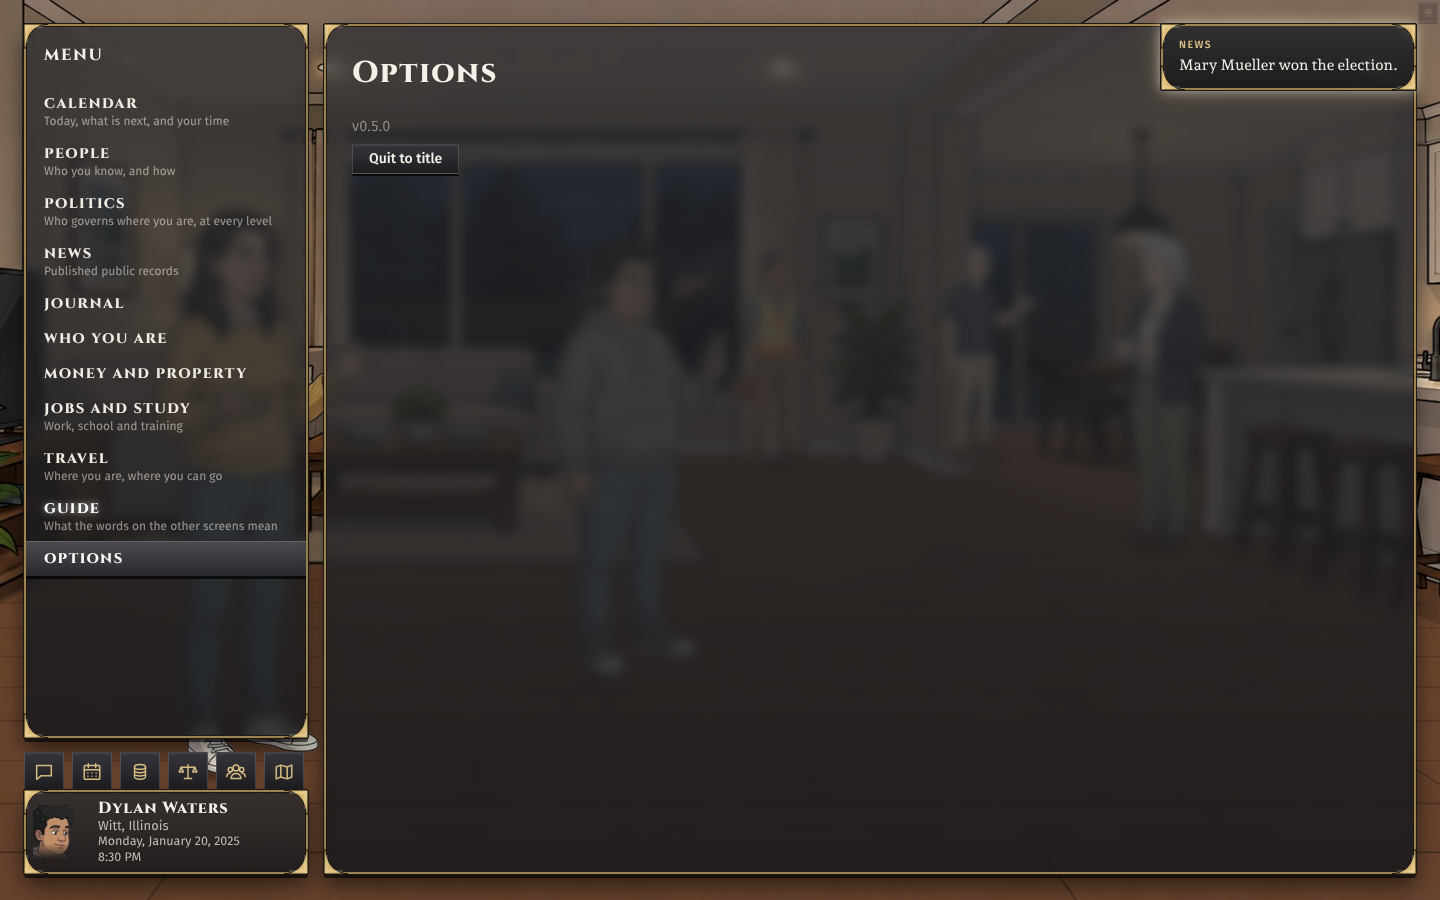
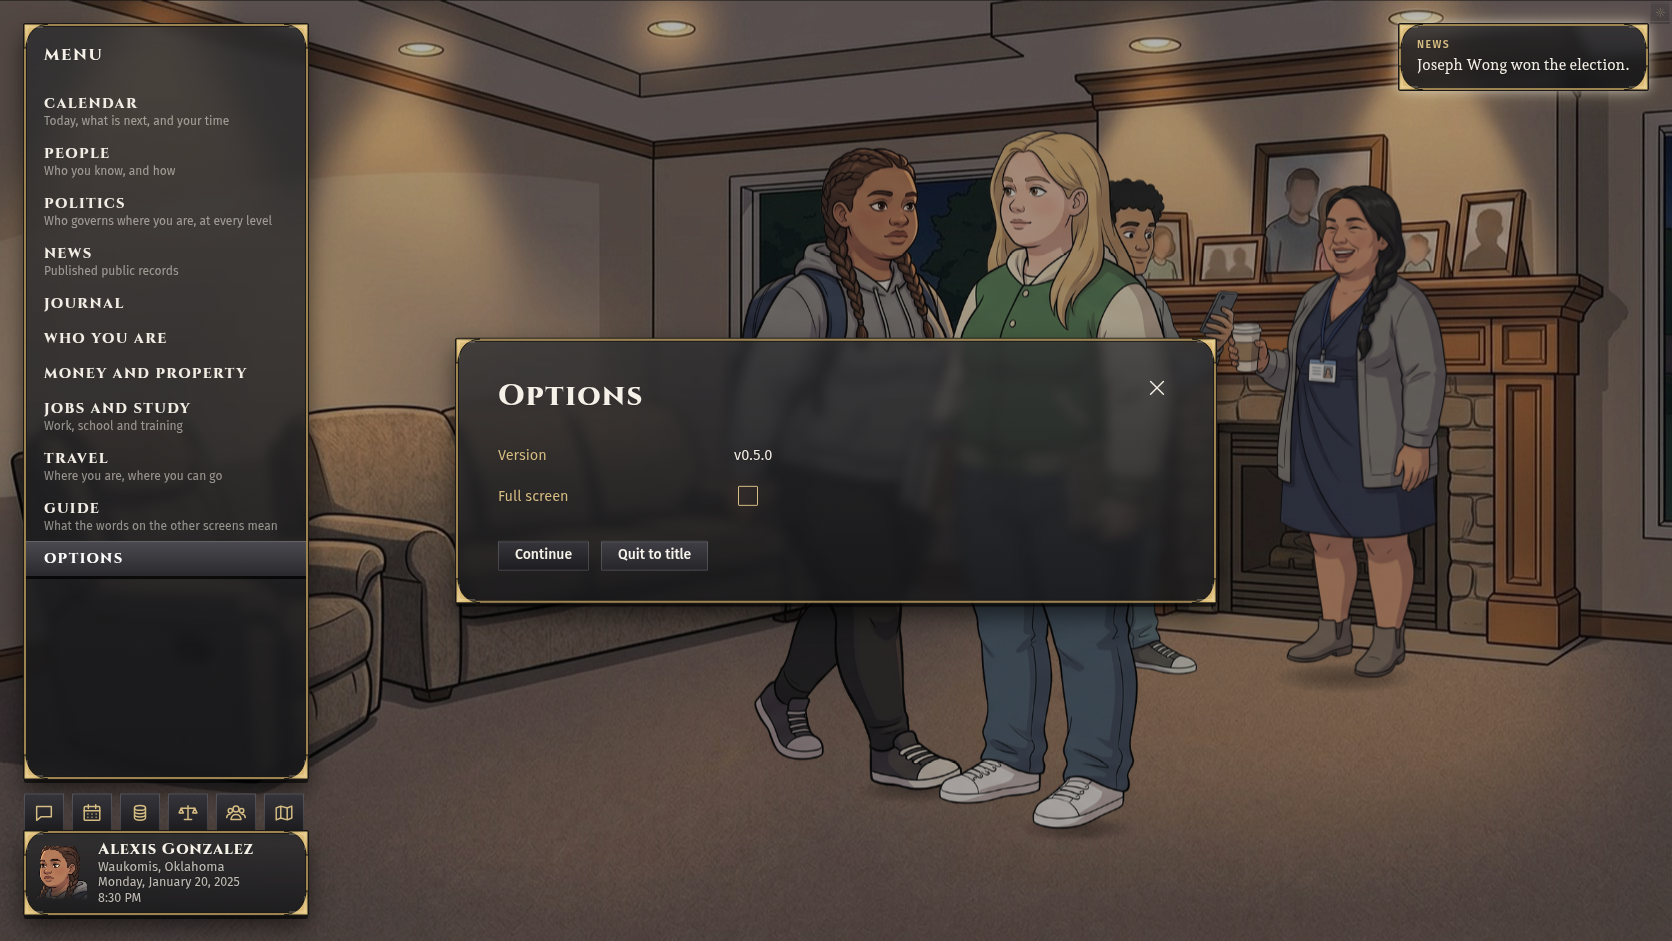
Build compact Options with Kit 13 and preserve resume time

diff --git a/src/bench/play.css b/src/bench/play.css
@@ -1086,6 +1086,41 @@ body.dev .dev-ring {
   transform: translateX(-50%);
   width: min(900px, calc(100vw - 2 * var(--gutter)));
 }
+/* Options uses the approved compact panel instead of the full-height reader. */
+#game #sheet.options-sheet {
+  left: 50%;
+  right: auto;
+  top: 50%;
+  bottom: auto;
+  transform: translate(-50%, -50%);
+  width: min(760px, calc(100vw - 2 * var(--gutter)));
+  max-height: calc(100vh - 2 * var(--gutter));
+  padding: 30px 40px;
+}
+.options-sheet #sheet-body {
+  flex: 0 1 auto;
+  max-width: none;
+}
+.option-setting {
+  display: grid;
+  grid-template-columns: minmax(100px, 1fr) 2fr;
+  gap: 16px;
+  align-items: center;
+  margin: 18px 0;
+}
+.option-setting > span:first-child {
+  color: var(--gold);
+}
+.option-setting input {
+  justify-self: start;
+}
+.option-status:empty {
+  display: none;
+}
+.options-actions {
+  flex-wrap: wrap;
+  margin-top: 32px;
+}
 .sheet-head {
   display: flex;
   justify-content: space-between;

diff --git a/src/bench/handler.ts b/src/bench/handler.ts
@@ -450,6 +450,10 @@ export async function benchRequest(
                 portrait: Boolean(core!.people.get(personId)?.looks?.recipe),
                 placeName,
                 date: core!.date,
+                minuteOfDay:
+                  player!.packet?.at.minuteOfDay ??
+                  opening?.home?.minuteOfDay ??
+                  0,
                 packet: player!.packet,
               }
             : null,

diff --git a/docs/release/changes/options-simple.md b/docs/release/changes/options-simple.md
@@ -5,4 +5,4 @@ title: Options no longer lists which scenes interrupt you
 impact: patch
 ---
 
-Options drops the list of scene kinds that may stop your day. The director decides what interrupts, so Options keeps only Skip opening, the version and Quit to title.
+Options uses a compact panel with the existing Kit 13 frame and controls. Continue returns to play, Full screen changes the window, and Quit to title keeps the current life available. The director decides which scenes interrupt; the scene-kind toggles are removed.
